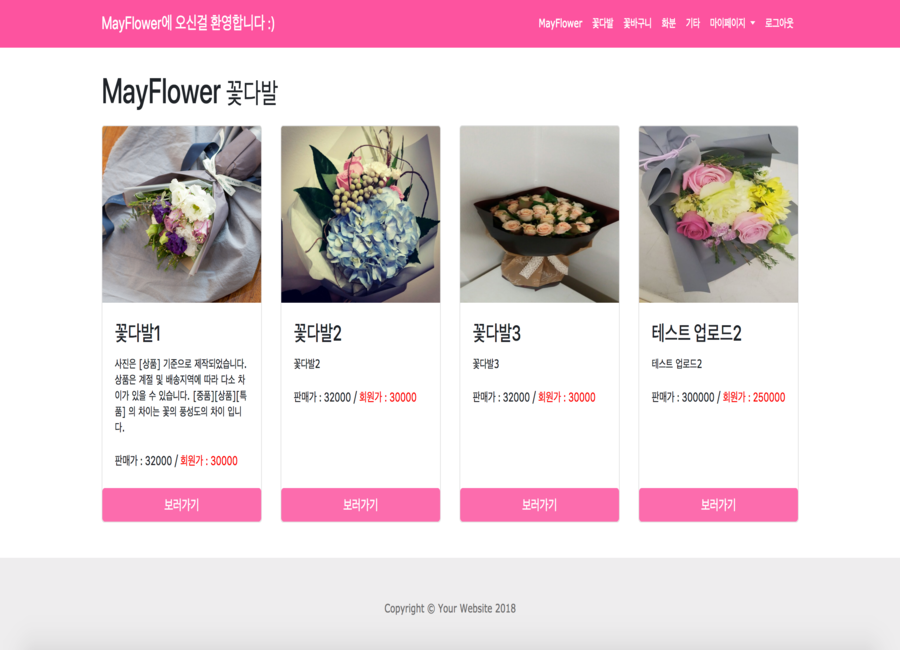
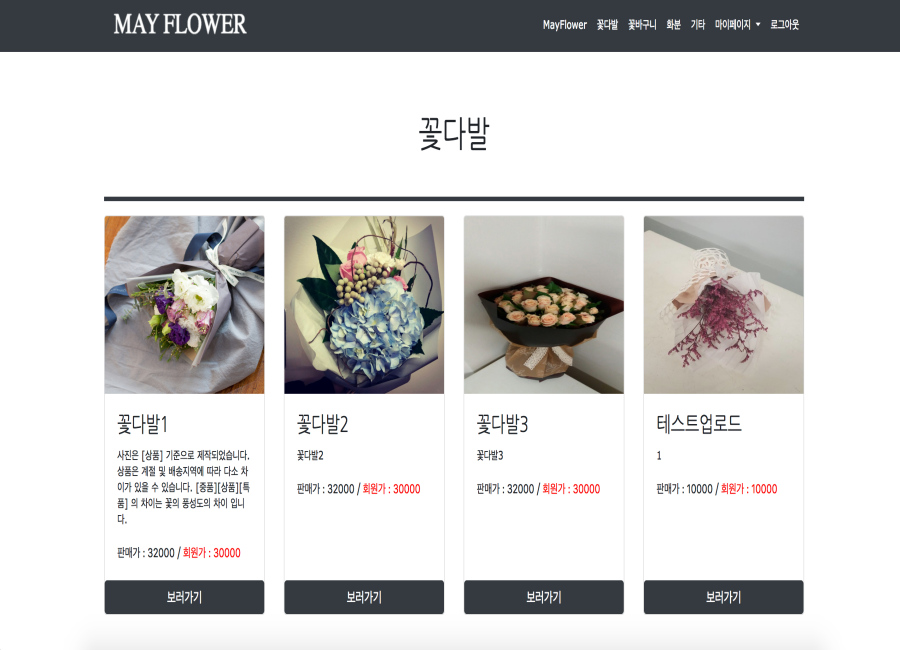
메이플라워 포토폴리오 이미지 변경 및 추가 설명

diff --git a/index.html b/index.html
@@ -105,7 +105,7 @@
                   <i class="fa fa-search-plus fa-3x"></i>
                 </div>
               </div>
-              <img class="img-fluid" src="img/portfolio/mayFlower/mayFlower-flower.png" alt="">
+              <img class="img-fluid" src="img/portfolio/mayFlower/mayFlower-index.png" alt="">
             </a>
           </div>
           <div class="col-sm-4 portfolio-item">
@@ -695,22 +695,34 @@
                       </strong>
                     </li>
                   </ul>
-                  <p>여자친구에게 꽃가게 웹페이지 제작을 부탁받아 진행하게 된 프로젝트이며, DB설계 부터 AWS EC2 서버 구축, S3 연동, Mailgun API 연동하여 진행했습니다. 현재 배너 제작 및 테스트를 진행하고 있으며, KCP 결제 모듈을 연동할 예정입니다.</p>
-                  <img class="img-fluid img-centered" src="img/portfolio/mayFlower/mayFlower-index.png" alt="">
-                  <img class="img-fluid img-centered" src="img/portfolio/mayFlower/mayFlower-index2.png" alt="">
+                  <p>여자친구에게 꽃가게 웹페이지 제작을 부탁받아 진행하게 된 프로젝트이며, DB설계 부터 AWS EC2 서버 구축, S3 연동, Mailgun API 연동하여 진행했습니다. 현재 테스트를 진행중이며, 네이버 웹마스터 도구 등록을 완료한 상태입니다. 그리고, 상품 등록 및 KCP 결제 모듈을 연동할 예정입니다.</p>
+                  <img class="img-fluid img-centered" src="img/portfolio/mayFlower/mayFlower-login.png" alt="">
                   <img class="img-fluid img-centered" src="img/portfolio/mayFlower/mayFlower-register.png" alt="">
                   <ul class="list-inline item-details" style="margin-top: 30px; margin-bottom: 30px;">
                     <li>< 기술설명 ><br/>
                       <strong>
-                        <a style="color: #18bc9c">1. 배너 슬라이드 적용</a>
+                        <a style="color: #18bc9c">1. 로그인 및 회원가입 기능 구현</a>
                       </strong>
                       <br/>
                       <strong>
-                        <a style="color: #18bc9c">2. 네이버 지도 API 연동을 통한 꽃가게 주소 연동 / 꽃가게 소개 페이지 미정</a>
+                        <a style="color: #18bc9c">2. Mailgun API 연동 및 보내고 API 연동을 통한 메일 인증 및 휴대폰 인증, 인증을 위한 난수 생성 및 Ajax를 통한 인증 요청</a>
+                      </strong>
+                    </li>
+                  </ul>
+                  <img class="img-fluid img-centered" src="img/portfolio/mayFlower/mayFlower-index.png" alt="">
+                  <img class="img-fluid img-centered" src="img/portfolio/mayFlower/mayFlower-index2.png" alt="">
+                  <ul class="list-inline item-details" style="margin-top: 30px; margin-bottom: 30px;">
+                    <li>< 기술설명 ><br/>
+                      <strong>
+                        <a style="color: #18bc9c">1. 배너 슬라이드 적용 및 배너 제작</a>
                       </strong>
                       <br/>
                       <strong>
-                        <a style="color: #18bc9c">3. 이메일 인증을 위해 Mailgun API 연동, 휴대번호 인증을 위해 문자 API 연동, 인증을 위한 난수 생성 및 Ajax를 통한 인증 요청</a>
+                        <a style="color: #18bc9c">2. 네이버 지도 API 연동을 통한 꽃가게 주소 연동 및 인스타그램 연동</a>
+                      </strong>
+                      <br/>
+                      <strong>
+                        <a style="color: #18bc9c"></a>
                       </strong>
                     </li>
                   </ul>
